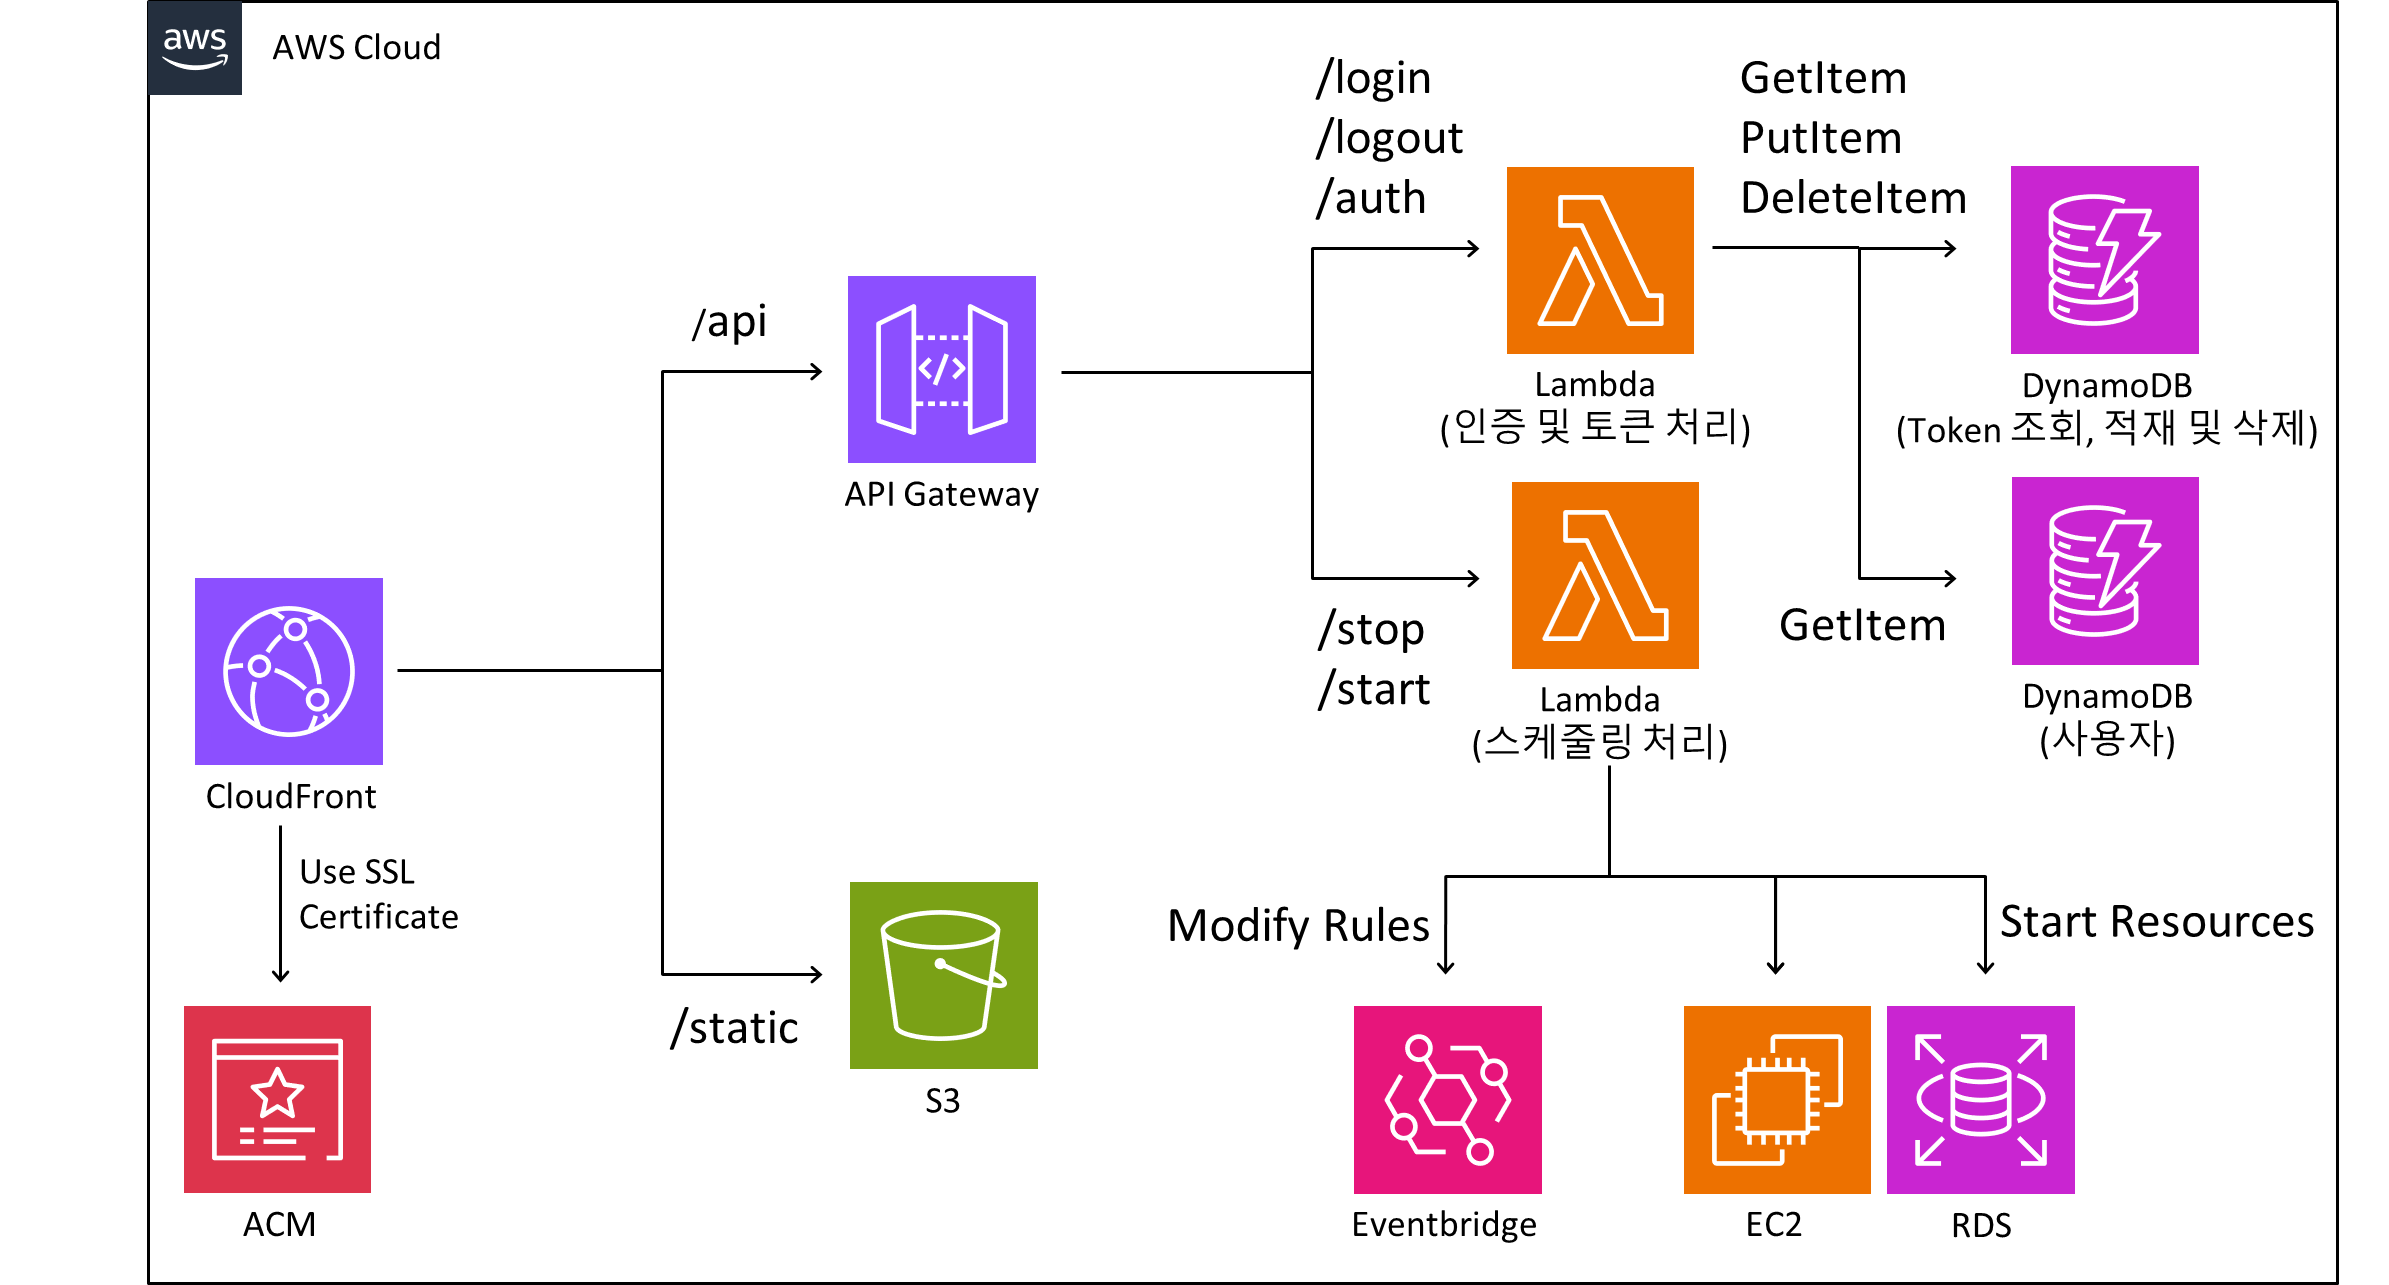
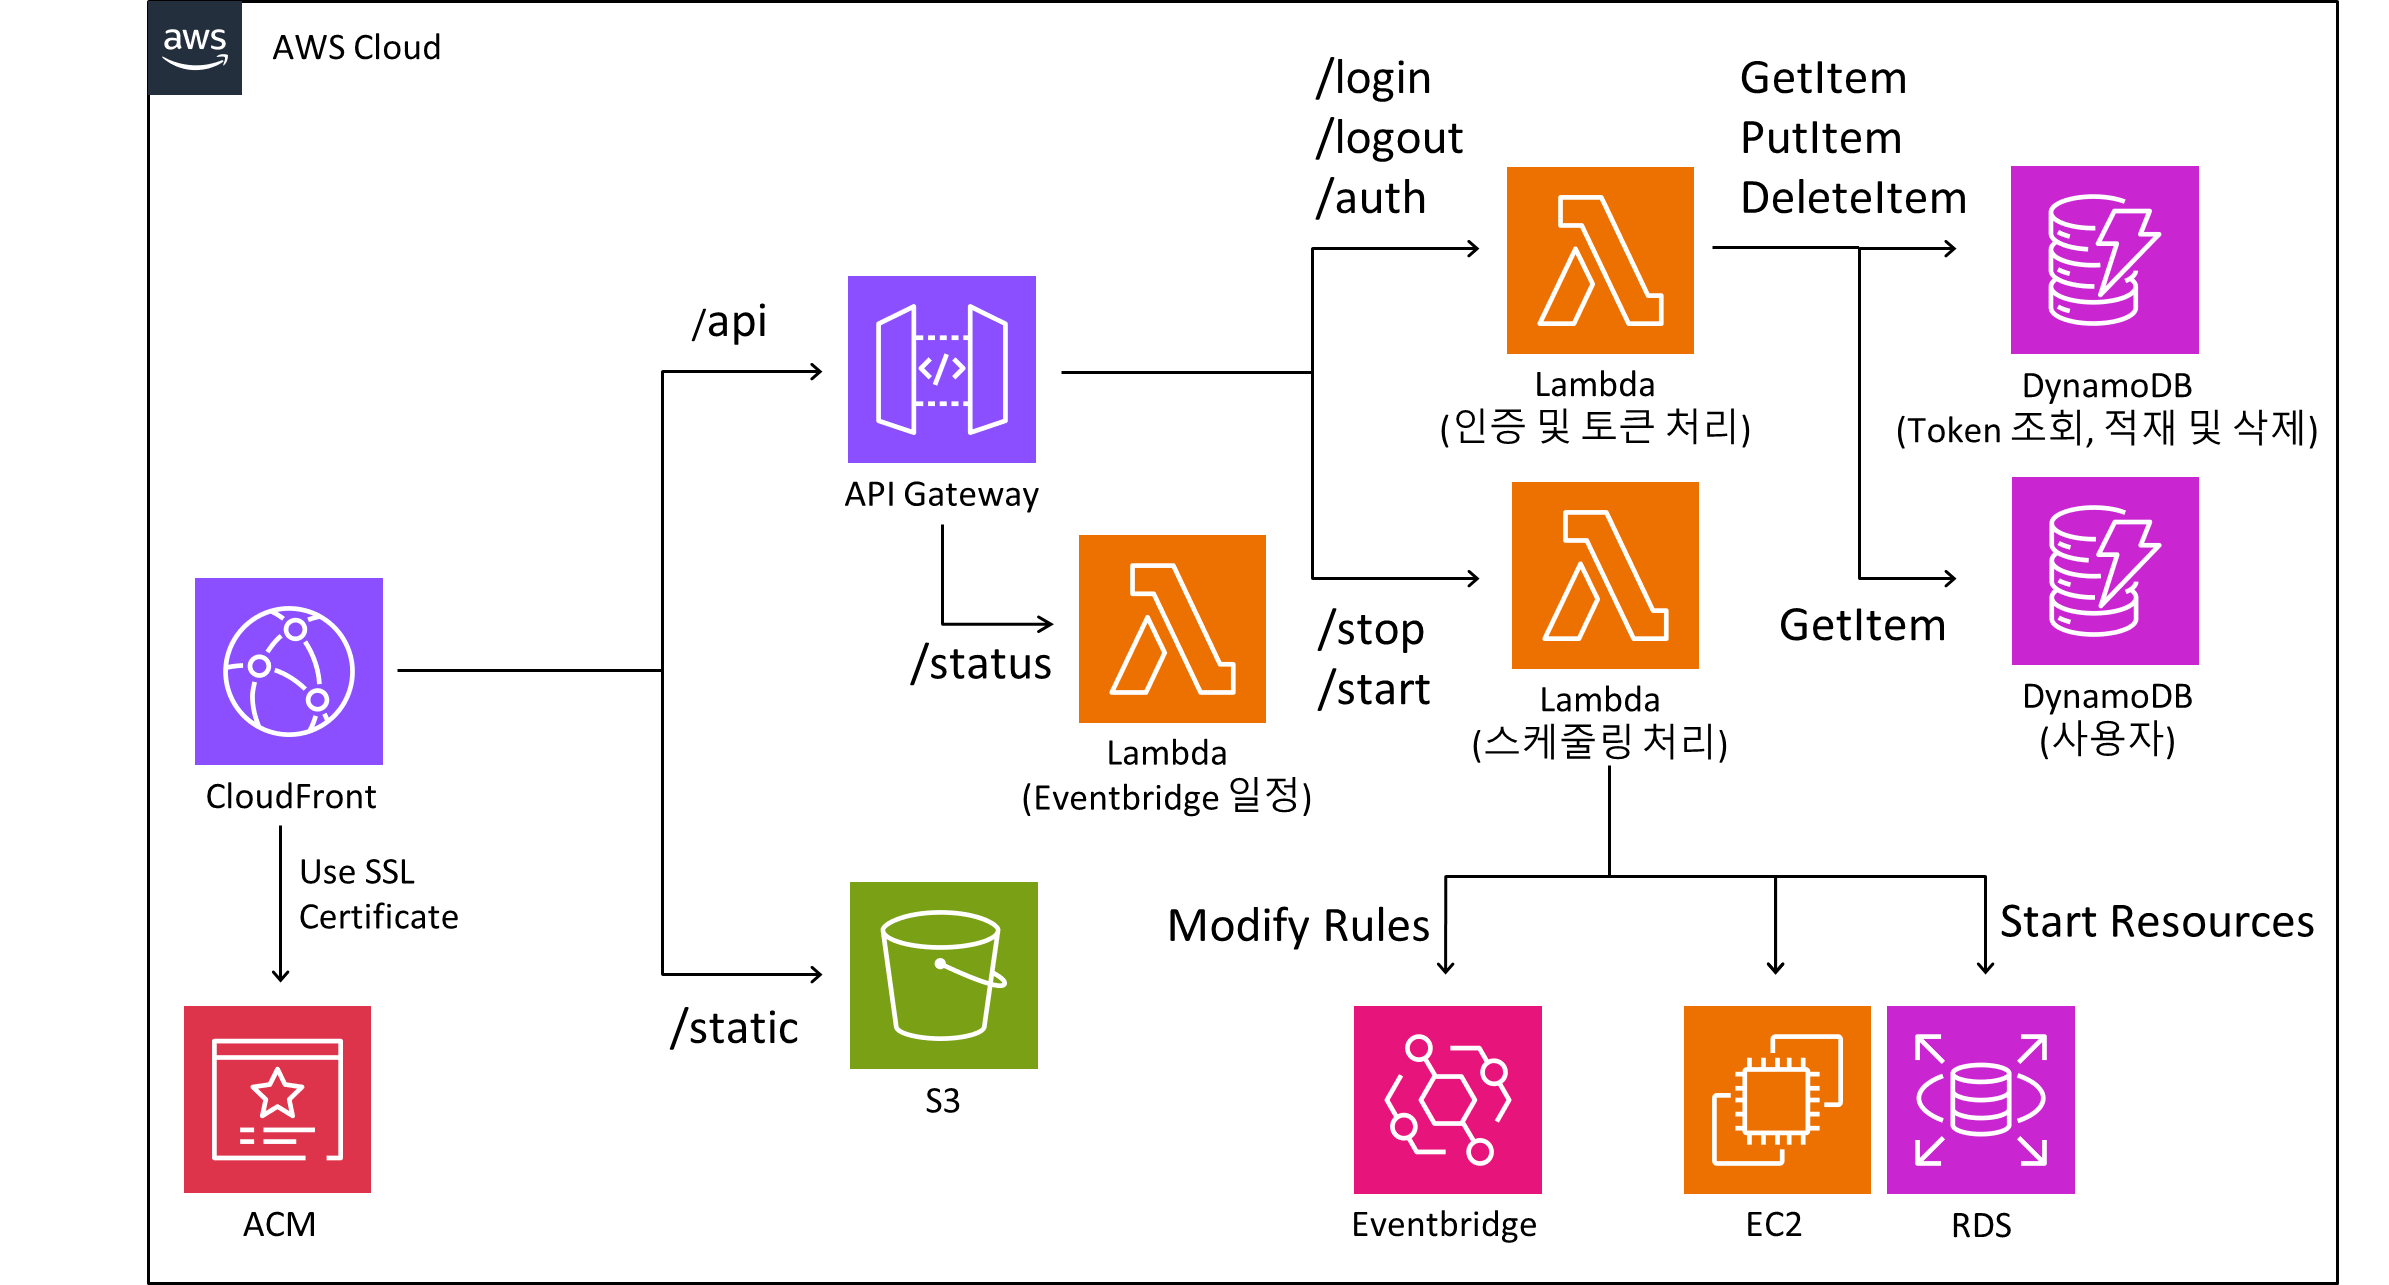
아키텍처 추가

Changed region(s): [[0.3717, 0.4047, 0.5576, 0.6537]]

diff --git a/README.md b/README.md
@@ -23,6 +23,7 @@ AWS Amazon Elastic Compute Cloud(Amazon EC2) 및 Amazon Relational Database Serv
 - 리소스 스케줄링 관리
   - EC2/RDS 인스턴스 중지 일정 등록 및 수정
   - EC2/RDS 인스턴스 즉시 시작
+  - Eventbridge 현황 확인
 - 사용자 인증
   - JWT 기반 토큰 인증
   - 자동 로그아웃 (토큰 만료)
@@ -90,6 +91,8 @@ AWS Amazon Elastic Compute Cloud(Amazon EC2) 및 Amazon Relational Database Serv
 ## 📁 프로젝트 구조
 ```tree
 .
+├── cloudfront-function/          # cloudfront 관련 함수
+│   └── time.css                  # 뷰어 요청용 함수
 ├── css/                          # 스타일시트 파일
 │   ├── auth.css                  # 인증 관련 스타일
 │   ├── common.css                # 공통 스타일
@@ -97,12 +100,14 @@ AWS Amazon Elastic Compute Cloud(Amazon EC2) 및 Amazon Relational Database Serv
 │   ├── guide.css                 # 가이드 페이지 스타일
 │   ├── login.css                 # 로그인 페이지 스타일
 │   ├── main.css                  # 메인 페이지 스타일
+│   ├── status.css                # 현황 페이지 스타일
 │   └── time.css                  # UTC 및 KST 시간 관련 스타일
 │
 ├── images/                       # 이미지 리소스
 │   ├── clock.png                 # 시계 이미지
 │   ├── env-select.svg            # 환경 선택 아이콘
 │   ├── login.PNG                 # 로그인 페이지 이미지
+│   ├── refresh.png               # 현황 재시도 버튼 이미지
 │   ├── runcat.gif                # 애니메이션 이미지
 │   ├── scheduler-1.PNG           # 스케줄러 스크린샷 1
 │   ├── scheduler-2.PNG           # 스케줄러 스크린샷 2
@@ -113,6 +118,7 @@ AWS Amazon Elastic Compute Cloud(Amazon EC2) 및 Amazon Relational Database Serv
 │   ├── login.js                  # 로그인 기능
 │   ├── logout.js                 # 로그아웃 기능
 │   ├── main.js                   # 스케줄링 기능
+│   ├── status.js                 # 스케줄링 현황 기능
 │   └── time.js                   # UTC/KST 시간 관리
 │
 ├── pages/                        # HTML 페이지
@@ -124,9 +130,9 @@ AWS Amazon Elastic Compute Cloud(Amazon EC2) 및 Amazon Relational Database Serv
 │   ├── lambda-api.py             # 스케줄링 처리
 │   ├── lambda-auth.py            # 인증 처리
 │   ├── lambda-startscheduler.py  # 리소스 시작
+│   ├── lambda-status.py          # Eventbridge 현황
 │   └── lambda-stopscheduler.py   # 리소스 중지
 │
-├── cloudfront-function.js        # CloudFront 뷰어 요청 처리
 ├── error.html                    # 에러 페이지
 └── index.html                    # 로그인 페이지
 ```
